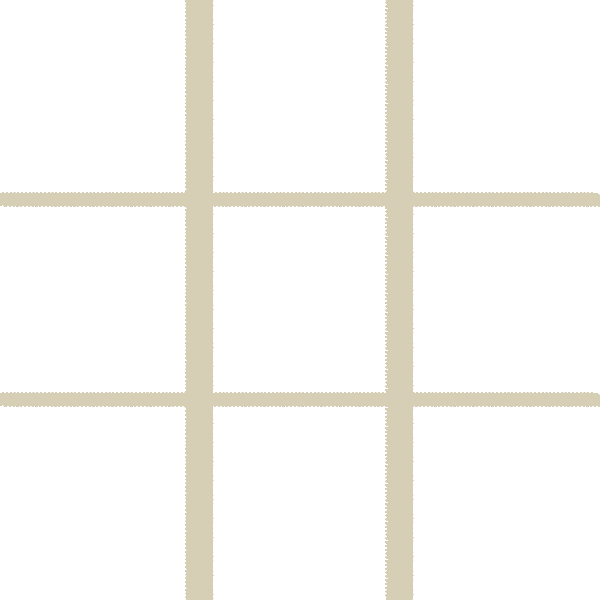
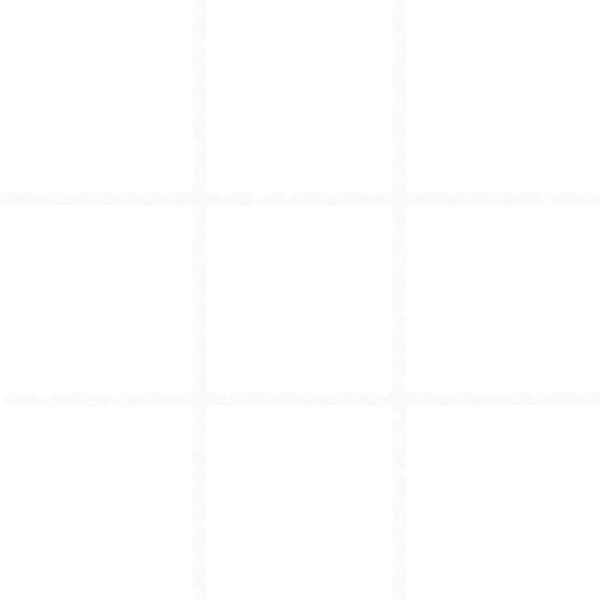
Adjusted media queries to handle new ticTacToe image.

Changed region(s): [[0.0, 0.0, 1.0, 1.0]]

diff --git a/app/ticTacToe.js b/app/ticTacToe.js
@@ -75,14 +75,11 @@ $(document).ready(() => {
                 .removeClass("x");
     }
     function isGameOver() {
-        console.log("isGameOver is running");
         let player1Tiles = $(".o").map((index, tile) => $(tile).data("index"));
         let player2Tiles = $(".x").map((index, tile) => $(tile).data("index"));
         player1Tiles = Array.from(player1Tiles);
         player2Tiles = Array.from(player2Tiles);
-        
-        console.log(player1Tiles);
-        console.log(player2Tiles);
+
         let winningIndexes = [
             [0,1,2],
             [3,4,5],
@@ -93,22 +90,22 @@ $(document).ready(() => {
             [0,4,8],
             [6,4,2]
         ]
-        let didPlayer1Win = false;
-        let didPlayer2Win = false;
+        let player1Won = false;
+        let player2Won = false;
         winningIndexes.forEach(path => {
             let p1Matches = path.filter(index => player1Tiles.indexOf(index) !== -1);
             let p2Matches = path.filter(index => player2Tiles.indexOf(index) !== -1);
             if(p1Matches.length === 3) {
-                didPlayer1Win = true;
+                player1Won = true;
             } else if(p2Matches.length === 3) {
-                didPlayer2Win = true;
+                player2Won = true;
             }
 
         })
 
-        if(didPlayer1Win) {
+        if(player1Won) {
             gameOver("player1");
-        } else if(didPlayer2Win) {
+        } else if(player2Won) {
             gameOver("player2");
         }
     }

diff --git a/app/assets/css/styles.css b/app/assets/css/styles.css
@@ -9,6 +9,7 @@ body {
 }
 .board {
     background-image: url("/assets/images/board.png");
+    background-size: cover;
 }
 .row {
     display: flex;
@@ -25,10 +26,16 @@ body {
 .x {
     background-color: blue;
 }
-
-@media (max-width: 480px) {
+#reset {
+    margin-top: 30px;
+}
+@media (max-width: 668px) {
+    .board {
+        width: 345px;
+        height: 345px;
+    }
     .tile {
-        width: 75px;
-        height: 75px;
+        width: 115px;
+        height: 115px;
     }
 }

diff --git a/app/homePage.js b/app/homePage.js
@@ -6,3 +6,10 @@ function playOnlineHandler(e) {
     console.log("play online clicked!");
     $.ajax("/loading.html").then(response => $(document.body).html(response));
 }
+
+function handleFoundOpponent() {
+    $("body").html(`<h1>Found Opponent!</h1>`)
+    setTimeout(() => {
+        window.location.replace("/ticTacToe")
+    }, 3000)
+}

diff --git a/app/loading.html b/app/loading.html
@@ -38,5 +38,5 @@
         return $animatedSpan
     });
 
-    $(".loading").html(loadingText);
+    $(".loading").html(loadingText)
 </script>
